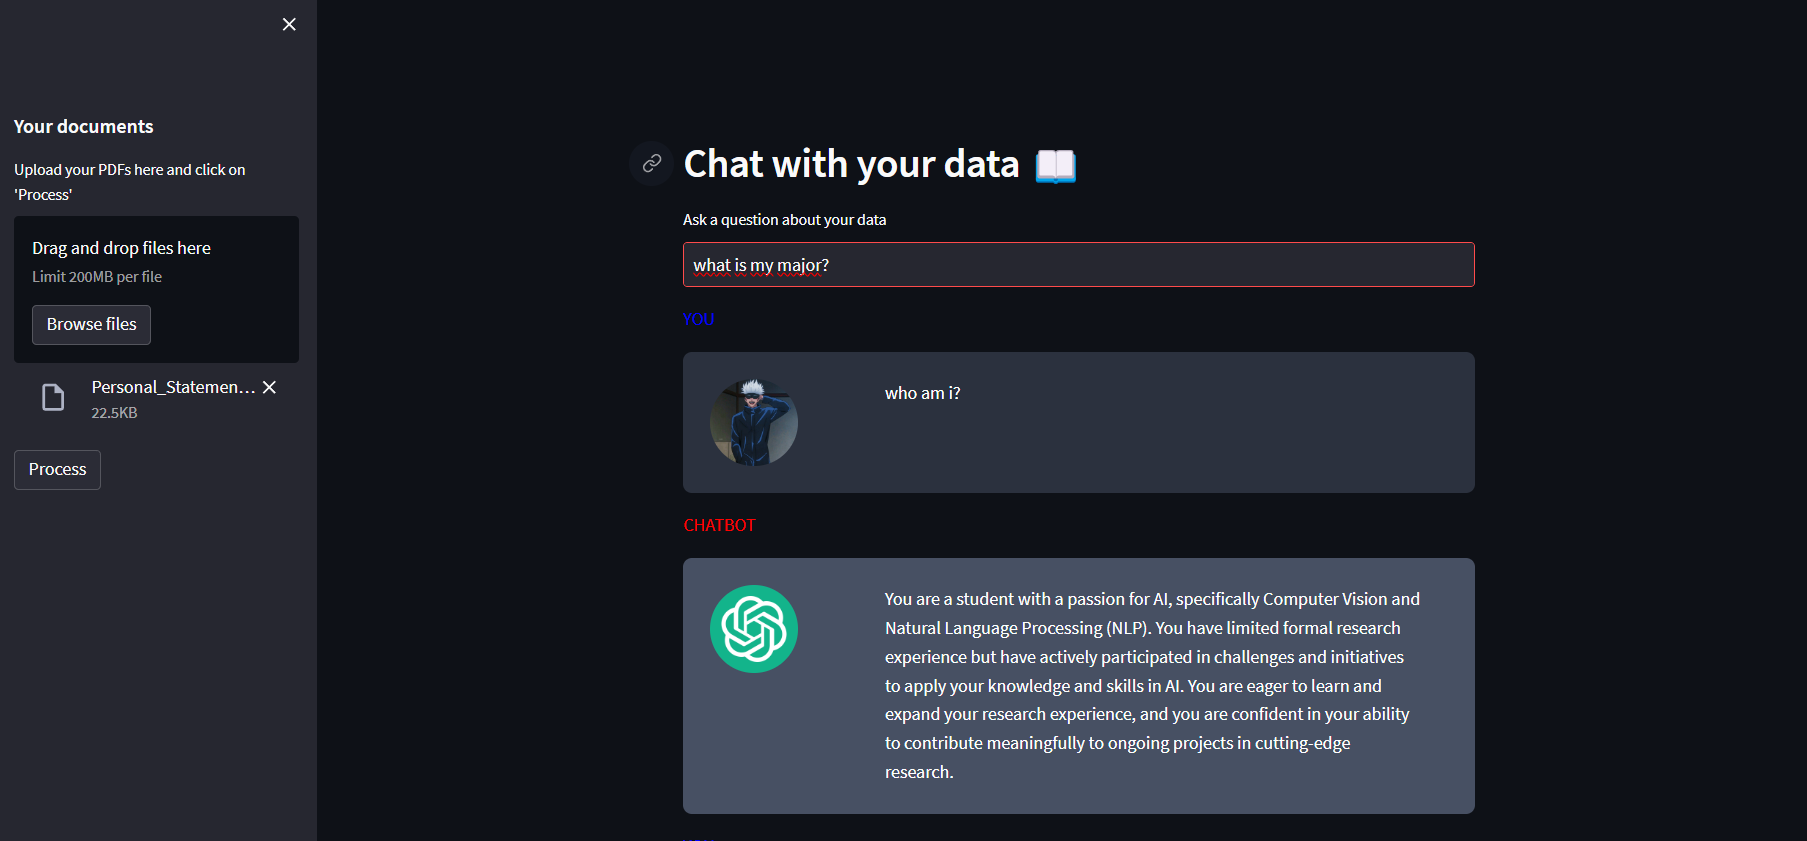
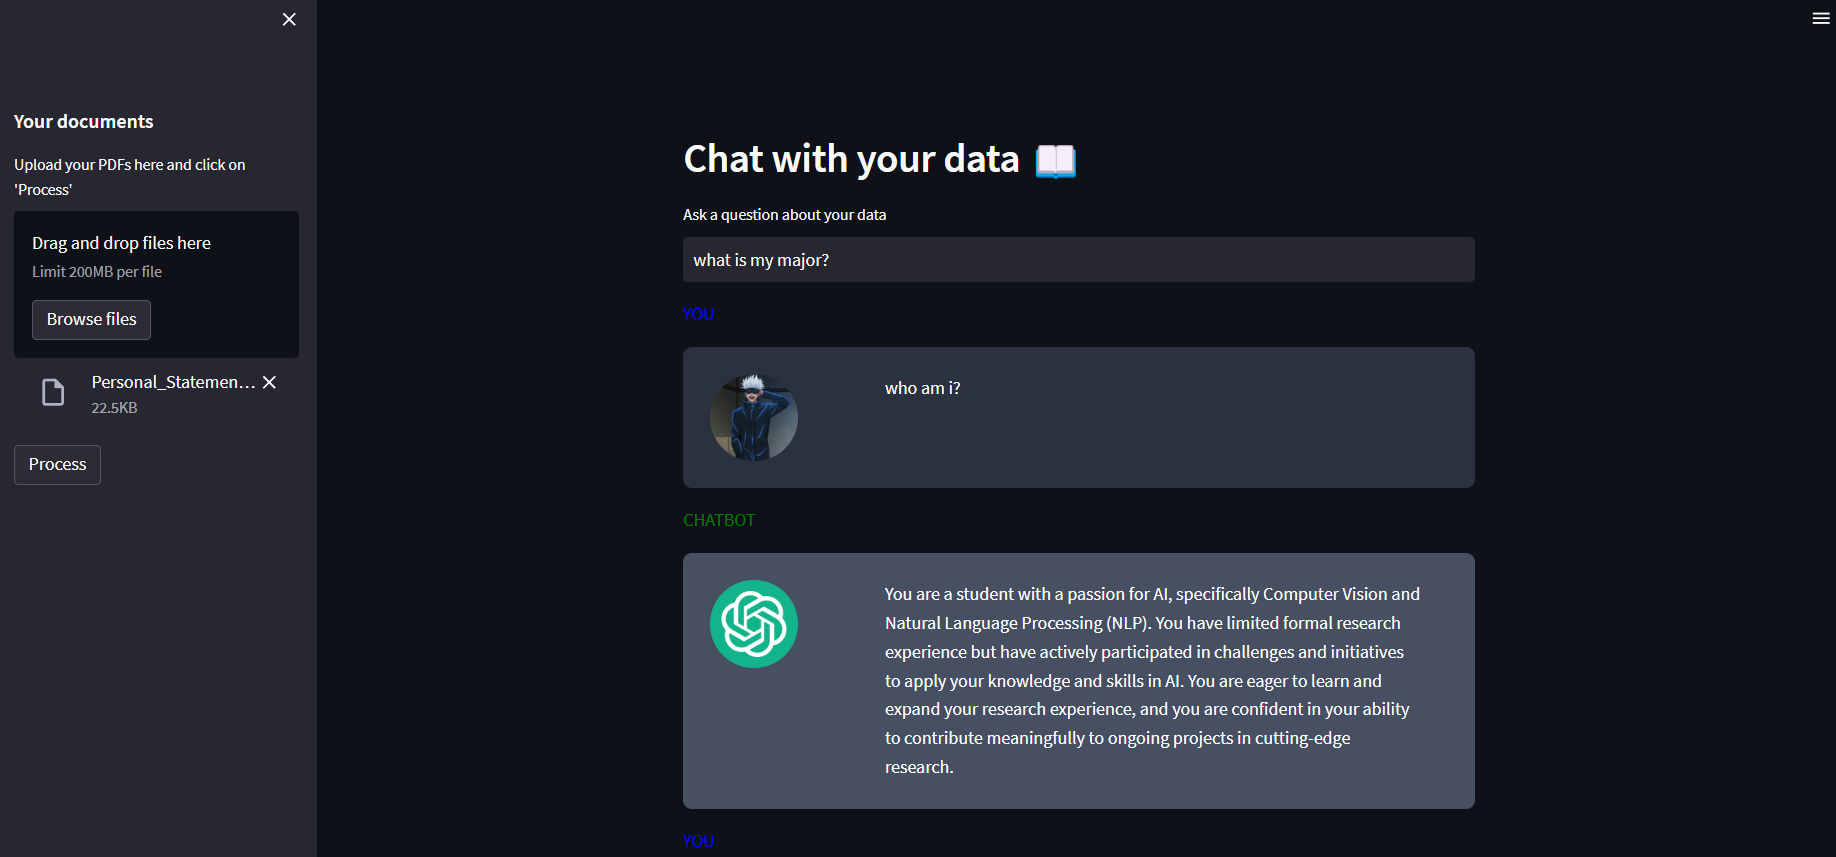
modify deme img

diff --git a/app.py b/app.py
@@ -62,7 +62,7 @@ def handle_user_input(user_question):
         if i % 2 == 0:
             st.write("<span style='color:blue'>YOU</span>" + user_template.replace("{{MSG}}", message.content), unsafe_allow_html=True)
         else:
-            st.write("<span style='color:red'>CHATBOT</span>" + bot_template.replace("{{MSG}}", message.content), unsafe_allow_html=True)
+            st.write("<span style='color:green'>CHATBOT</span>" + bot_template.replace("{{MSG}}", message.content), unsafe_allow_html=True)
 
 
 def main():
